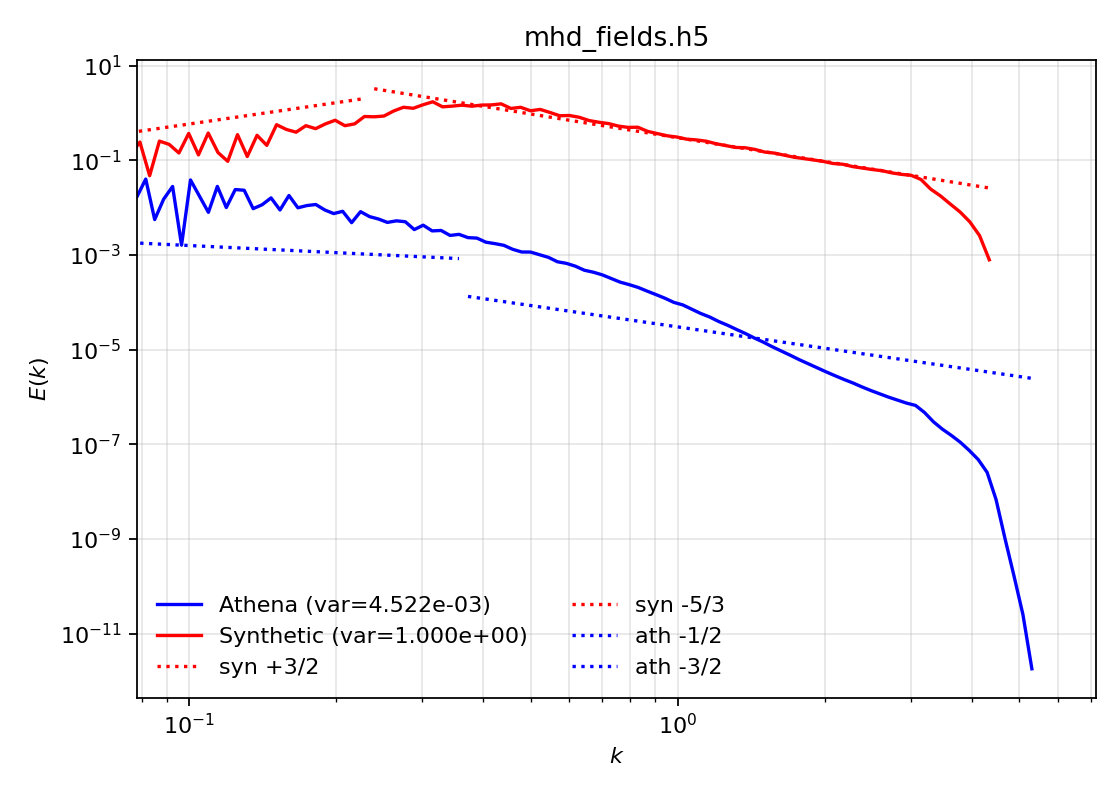
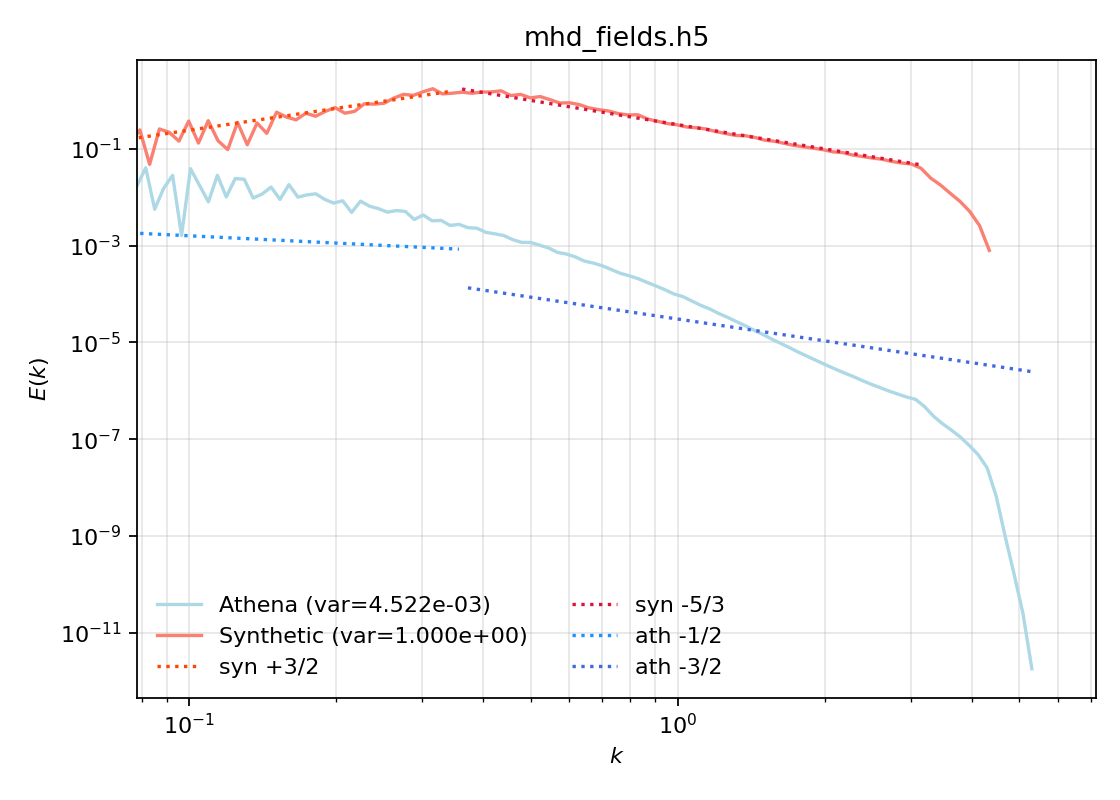
Energy spectrum: fixed colors, and the slope lines postion

diff --git a/interferometer/directional spectrum/strucure_function/energy_spectrum.py b/interferometer/directional spectrum/strucure_function/energy_spectrum.py
@@ -62,18 +62,18 @@ def main():
     x,spc=load_field("two_slope_2D_s4_r00.h5",DSET); kS,ES,varS=spectrum(x,spc,NBINS)
 
     fig=plt.figure(figsize=(7,5))
-    plt.loglog(kA,EA,label=f"Athena (var={varA:.3e})",color="blue")
-    plt.loglog(kS,ES,label=f"Synthetic (var={varS:.3e})",color="red")
+    plt.loglog(kA,EA,label=f"Athena (var={varA:.3e})",color="lightblue")
+    plt.loglog(kS,ES,label=f"Synthetic (var={varS:.3e})",color="salmon")
 
     k1S,k2S=np.nanmin(kS[kS>0]),np.nanmax(kS)
     ks=np.sqrt(k1S*k2S)
-    slope_line(plt,g:=kS,ES, +1.5, k1S,ks, color="red", ls=":", label="syn +3/2")
-    slope_line(plt,g,ES, -5/3, ks, k2S, color="red", ls=":", label="syn -5/3")
+    slope_line(plt,g:=kS,ES, +1.5, k1S,ks*1.5, color="orangered", ls=":", label="syn +3/2")
+    slope_line(plt,g,ES, -5/3, ks*1.5, k2S*0.75, color="crimson", ls=":", label="syn -5/3")
 
     k1A,k2A=np.nanmin(kA[kA>0]),np.nanmax(kA)
     ka=np.sqrt(k1A*k2A)
-    slope_line(plt,kA,EA, -0.5, k1A,ka, color="blue", ls=":", label="ath -1/2")
-    slope_line(plt,kA,EA, -1.5, ka, k2A, color="blue", ls=":", label="ath -3/2")
+    slope_line(plt,kA,EA, -0.5, k1A,ka, color="dodgerblue", ls=":", label="ath -1/2")
+    slope_line(plt,kA,EA, -1.5, ka, k2A, color="royalblue", ls=":", label="ath -3/2")
 
     plt.xlabel(r"$k$"); plt.ylabel(r"$E(k)$"); plt.grid(True,which="both",alpha=.3)
     plt.legend(frameon=False,ncol=2); plt.xlim(20/256)
